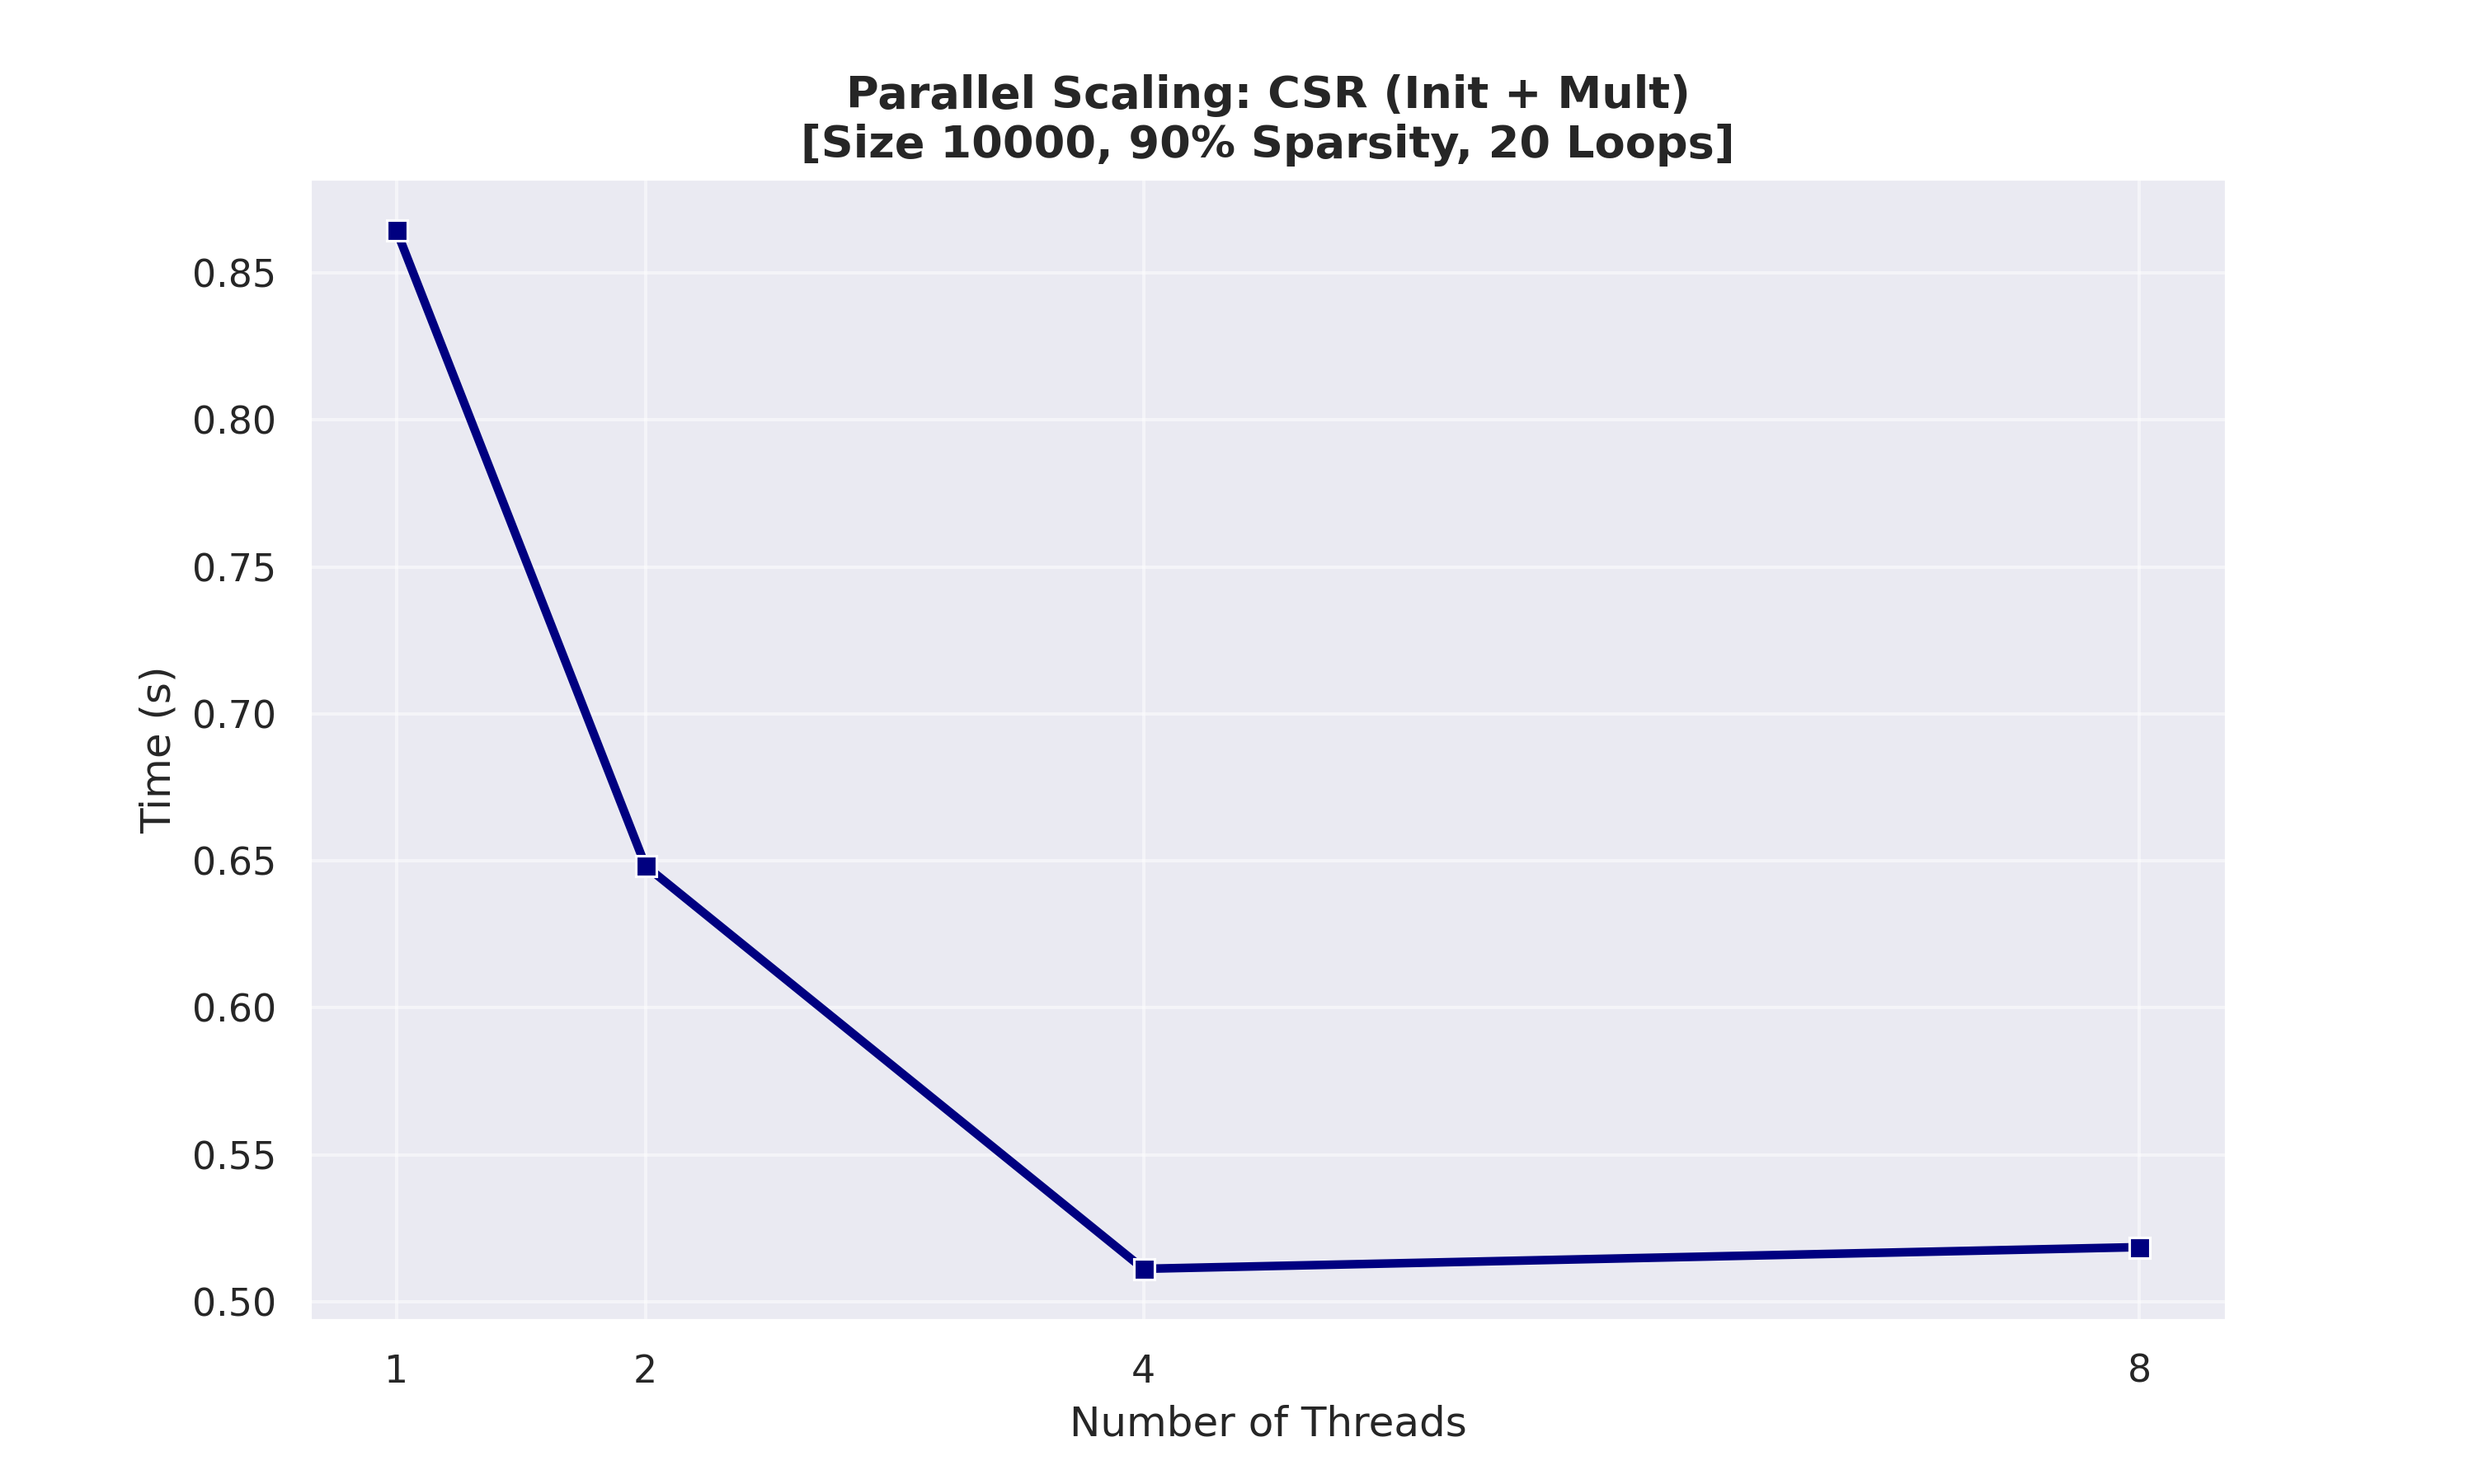
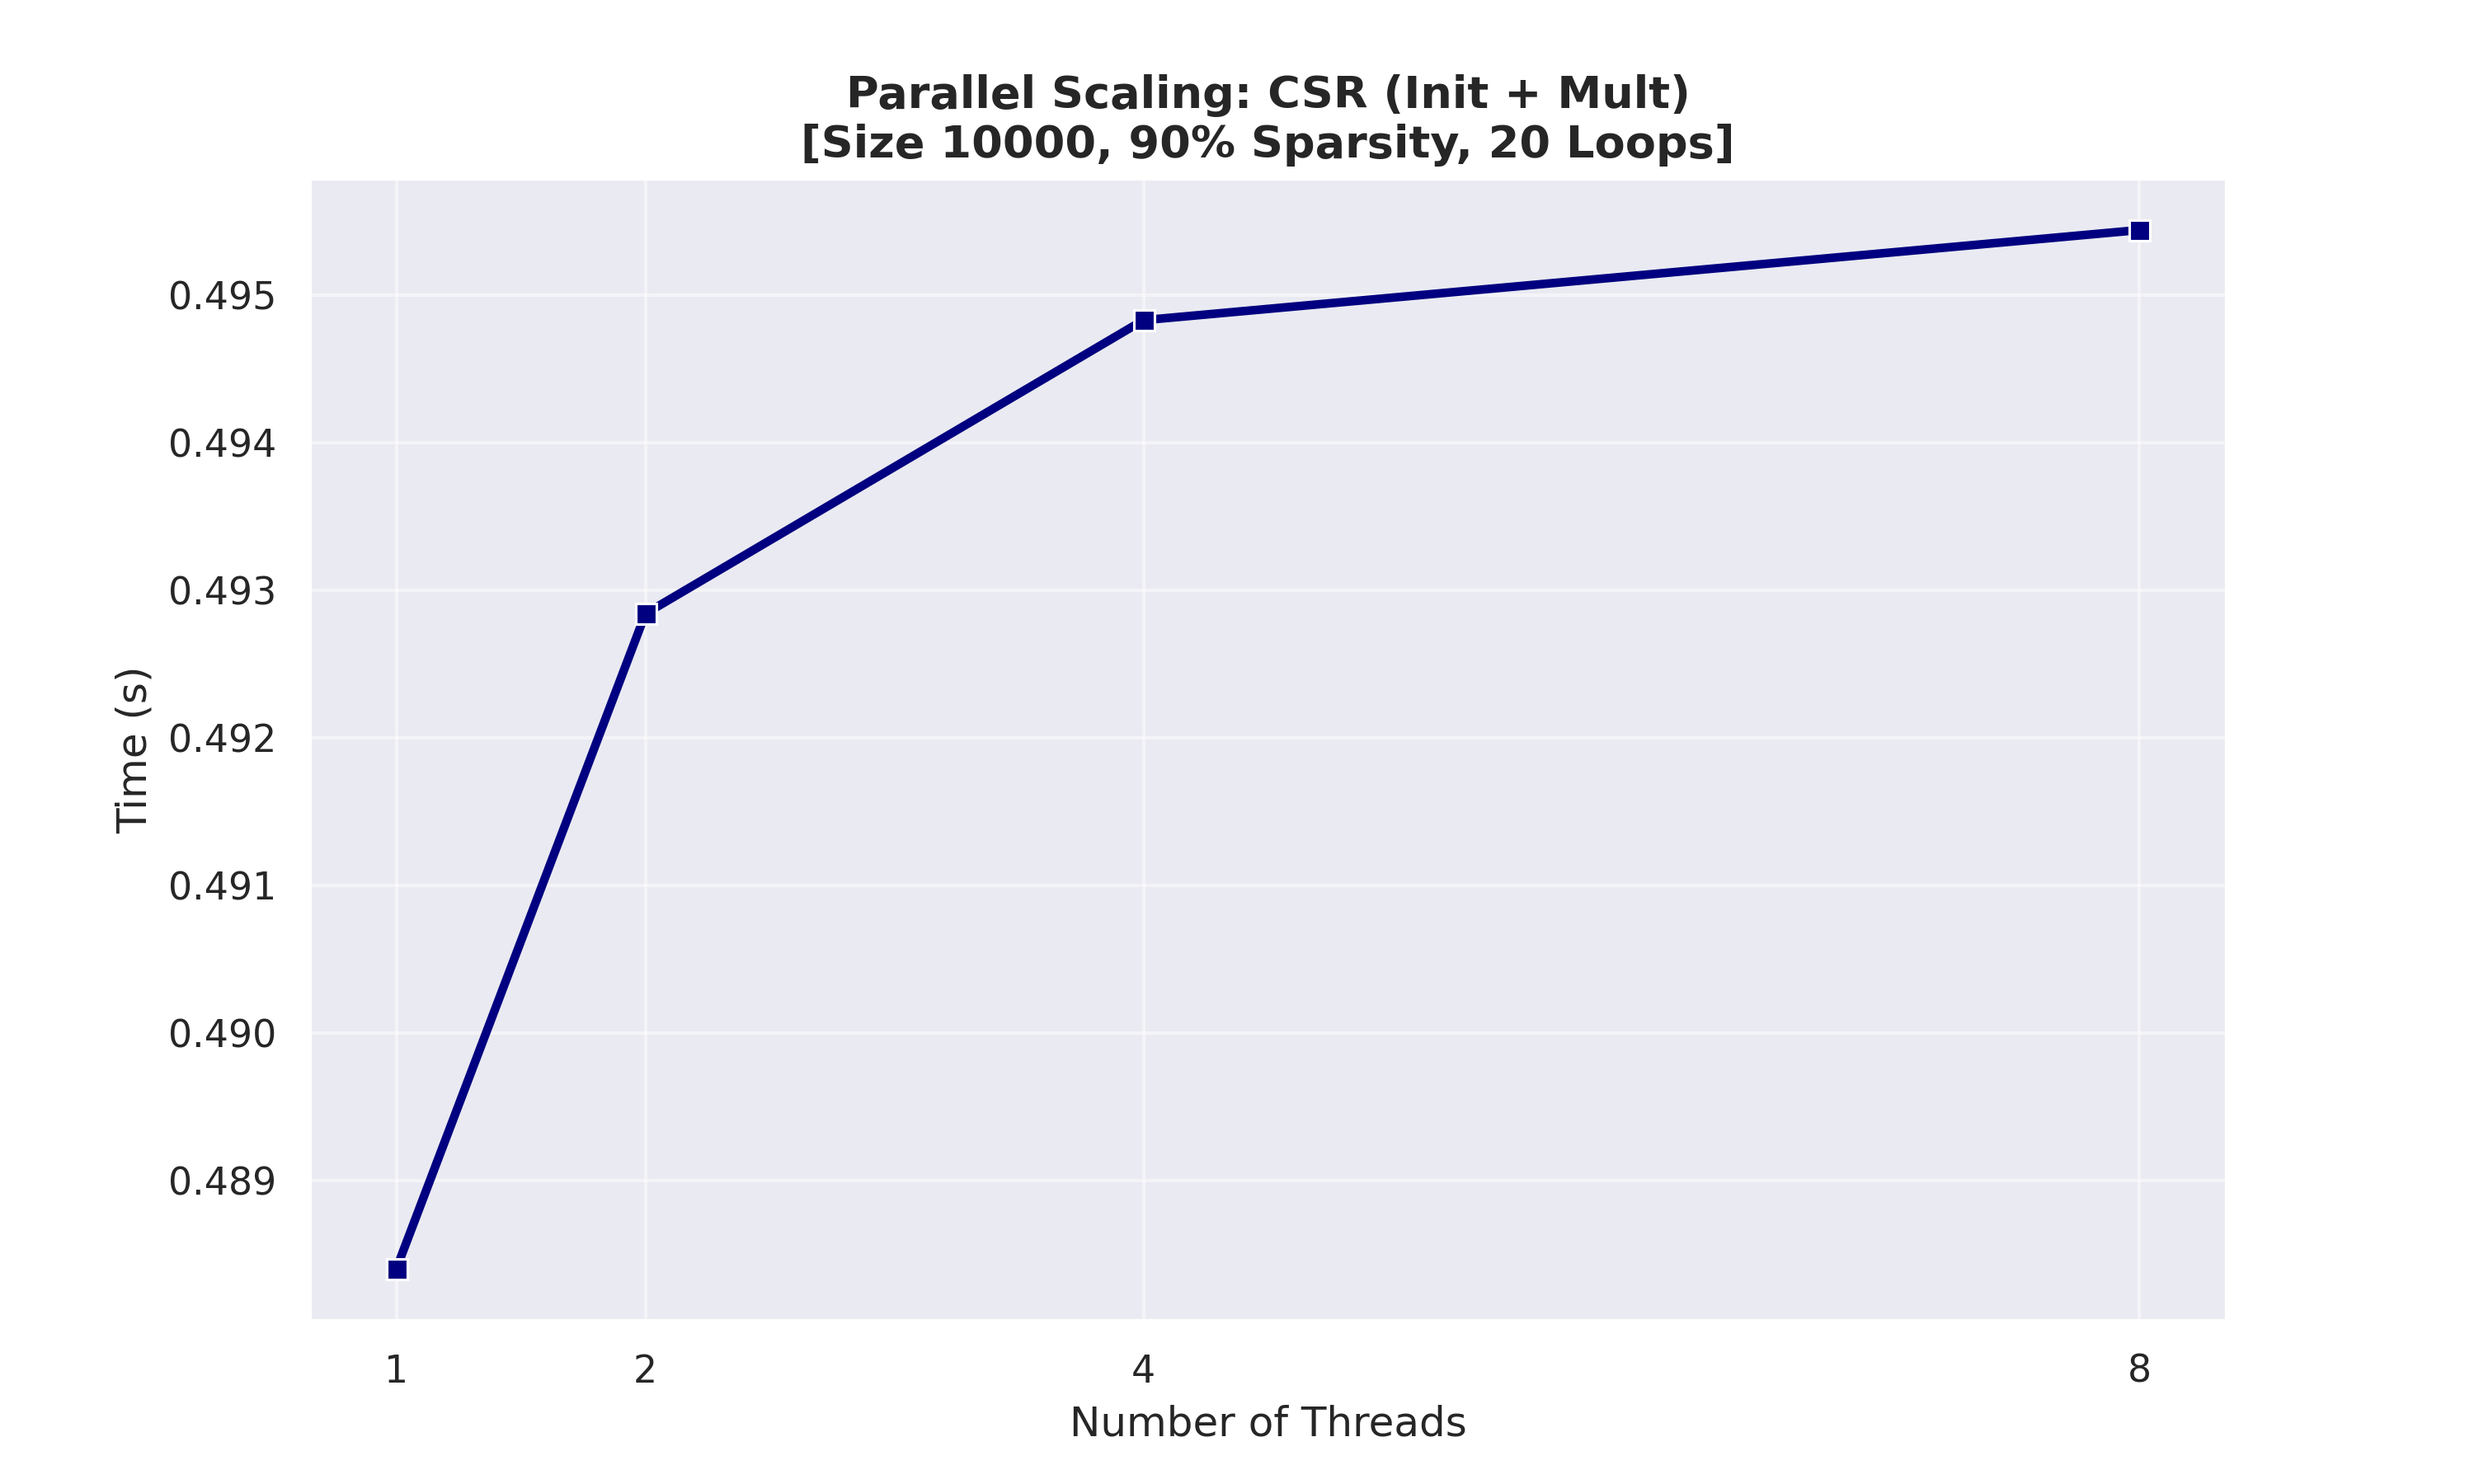
Added scheduling

diff --git a/Assignment-2/Exercise-2/solution.c b/Assignment-2/Exercise-2/solution.c
@@ -31,7 +31,7 @@ int *matVecMultCSR(const int *restrict V, const int *restrict colIdx, const int 
     // Only execute with OpenMP if there is compiler support, otherwise fall back to serial execution
     #ifdef _OPENMP
     #  pragma omp parallel for num_threads(numThreads)  \
-      default(none) private(i, j)  shared(V,colIdx, rowIdx, retVec, vector, rowNum)
+      schedule(dynamic) default(none) private(i, j)  shared(V,colIdx, rowIdx, retVec, vector, rowNum) 
     #endif
     for (i = 0; i < rowNum; i++)
     {
@@ -63,7 +63,7 @@ int* Mat_vect_mult(int *denseMatrix, int *vector, int numRows)
     }
     #ifdef _OPENMP
     #  pragma omp parallel for num_threads(numThreads)  \
-      default(none) private(i, j)  shared(denseMatrix, retVec, vector, numRows)
+      schedule(dynamic) default(none) private(i, j)  shared(denseMatrix, retVec, vector, numRows)
     #endif
     for (i = 0; i < numRows; i++)
     {
@@ -72,6 +72,67 @@ int* Mat_vect_mult(int *denseMatrix, int *vector, int numRows)
             retVec[i] += denseMatrix[i * numRows + j] * vector[j];
     }
     return retVec;
+}
+
+int* create_diagonal_matrix(int n) {
+    int* matrix = (int*)calloc(n * n, sizeof(int));
+    if (matrix == NULL) return NULL;
+    unsigned seed = time(NULL);
+    for (int i = 0; i < n; i++) {
+        matrix[i * n + i] = my_rand(&seed) % 10;
+    }
+    return matrix;
+}
+
+
+
+int* create_block_sparse_int(int n, int block_size, int num_blocks) {
+    int* matrix = (int*)calloc(n * n, sizeof(int));
+    if (!matrix) return NULL;
+
+    for (int b = 0; b < num_blocks; b++) {
+        // Randomly pick top-left corner aligned to block boundaries
+        int row_start = (rand() % (n / block_size)) * block_size;
+        int col_start = (rand() % (n / block_size)) * block_size;
+
+        for (int i = 0; i < block_size; i++) {
+            for (int j = 0; j < block_size; j++) {
+                matrix[(row_start + i) * n + (col_start + j)] = rand() % 100 + 1;
+            }
+        }
+    }
+    return matrix;
+}
+
+int* create_power_law_int(int n, int hub_density) {
+    int* matrix = (int*)calloc(n * n, sizeof(int));
+    if (!matrix) return NULL;
+
+    for (int i = 0; i < n; i++) {
+        // Every 20th row is a "hub" with many entries
+        int entries_to_fill = (i % 20 == 0) ? (n / hub_density) : (rand() % 5);
+
+        for (int k = 0; k < entries_to_fill; k++) {
+            int j = rand() % n;
+            matrix[i * n + j] = rand() % 100 + 1;
+        }
+    }
+    return matrix;
+}
+
+int* create_banded_int(int n, int bandwidth) {
+    int* matrix = (int*)calloc(n * n, sizeof(int));
+    if (!matrix) return NULL;
+
+    for (int i = 0; i < n; i++) {
+        int start = (i - bandwidth < 0) ? 0 : i - bandwidth;
+        int end = (i + bandwidth >= n) ? n - 1 : i + bandwidth;
+
+        for (int j = start; j <= end; j++) {
+            matrix[i * n + j] = rand() % 100 + 1;
+        }
+    }
+    return matrix;
 }
 
 int main(int argc, char *argv[])
@@ -172,7 +233,8 @@ int main(int argc, char *argv[])
     int* tempColIdx = malloc(numColumns * numColumns * sizeof(int));
     int* rowNNZ = malloc(numColumns * sizeof(int));
     // Collect results row wise
-    #pragma omp parallel for
+    #pragma omp parallel for num_threads(numThreads) \
+    schedule(dynamic)
     for(int row = 0; row < numColumns; row++){
         int nnz = 0;
         for(int col = 0; col < numColumns ; col++){
@@ -191,7 +253,8 @@ int main(int argc, char *argv[])
     }
     numNonZero = rowIdx[numColumns]; // Total count
     // Flatten them can also be parallel
-    #pragma omp parallel for
+    #pragma omp parallel for num_threads(numThreads) \
+    schedule(dynamic)
     for(int i = 0; i < numColumns; i++) {
         int startPos = rowIdx[i];
         for(int j = 0; j < rowNNZ[i]; j++) {
